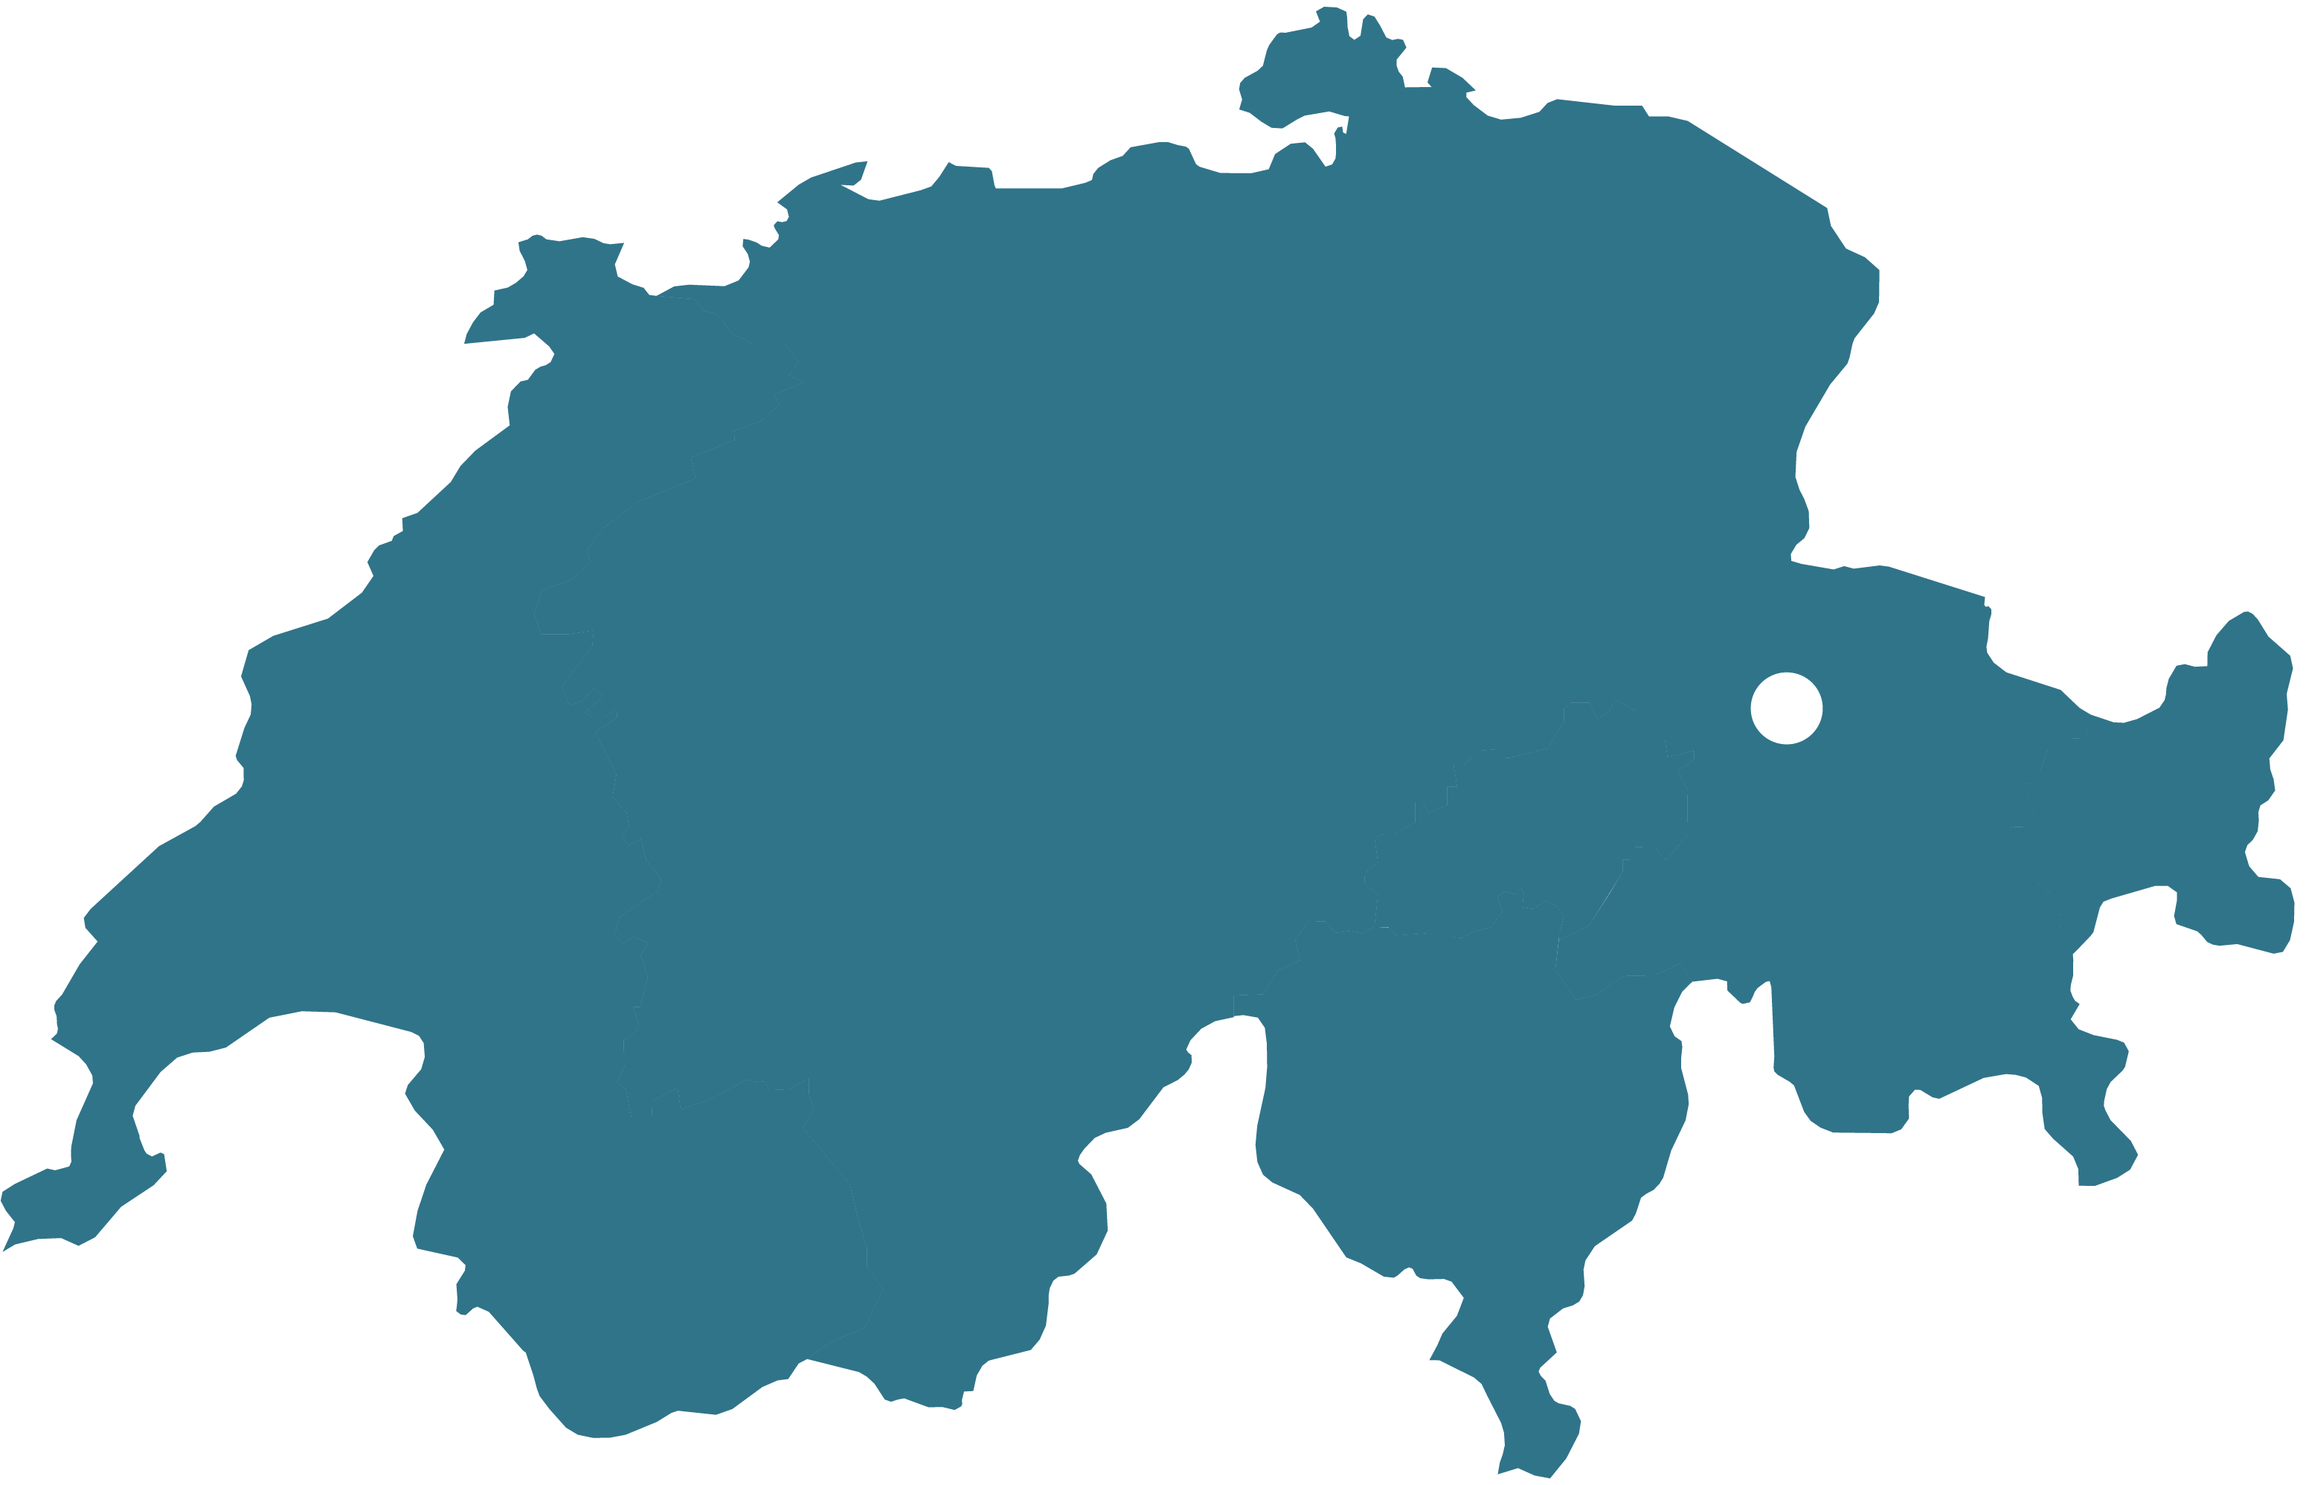
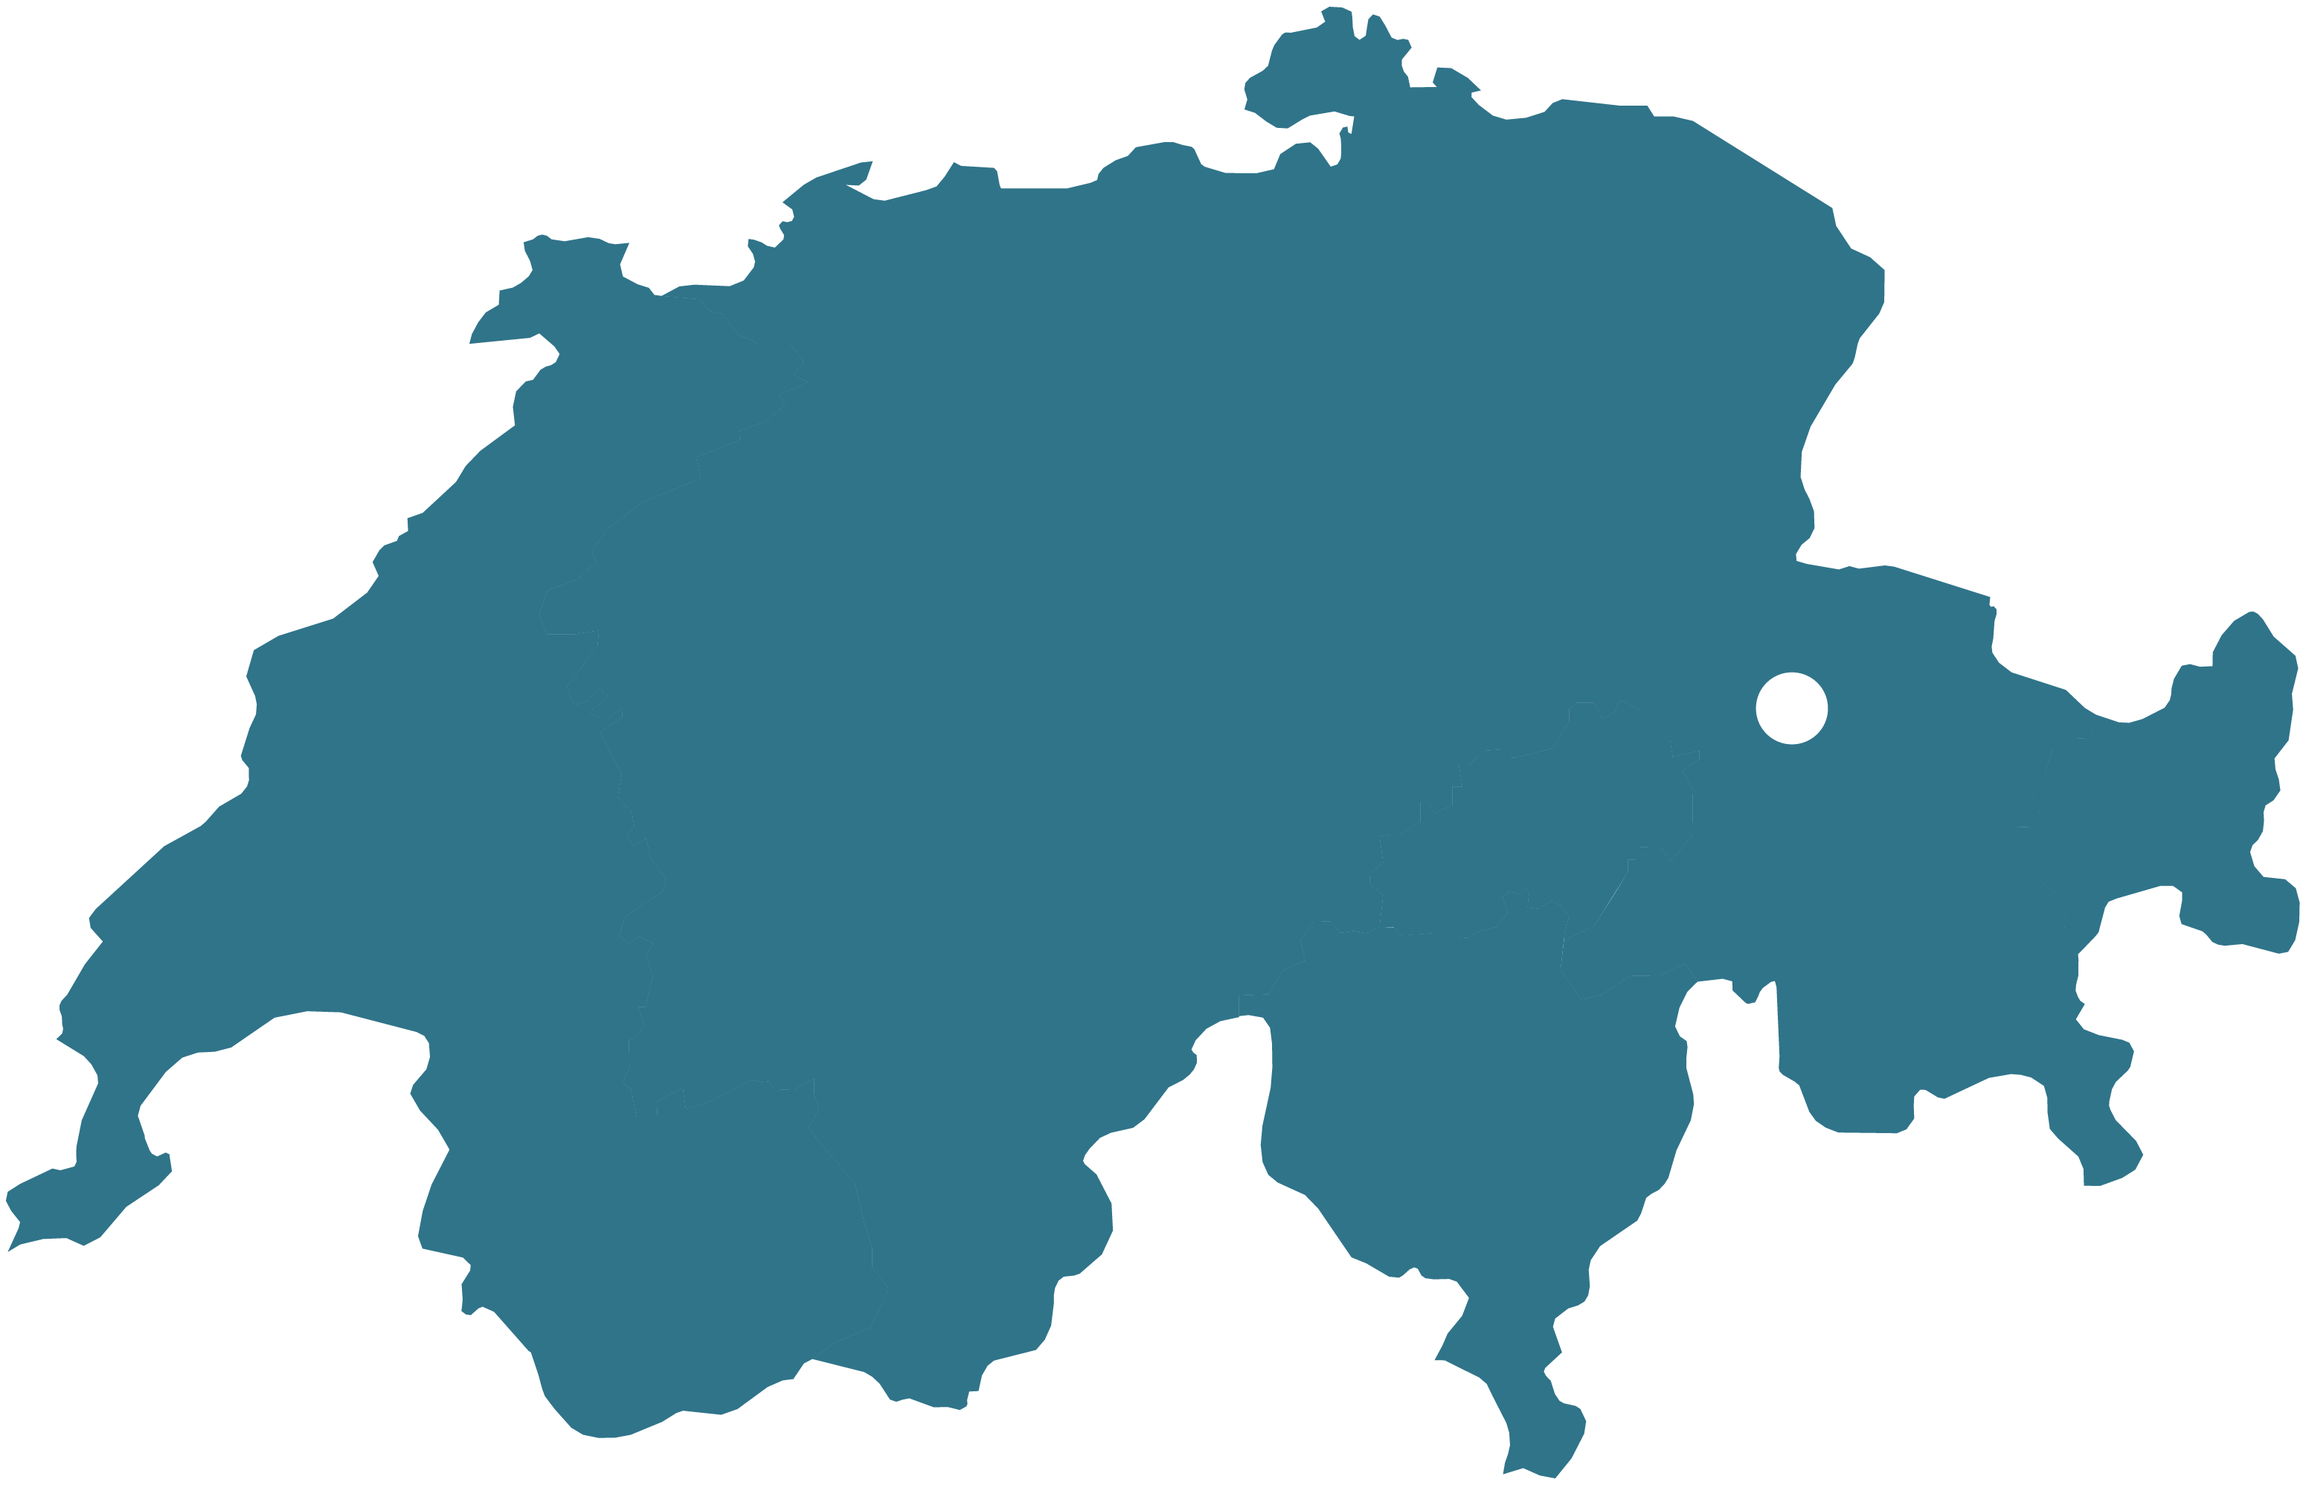
wetterseiten grundgerüst

diff --git a/wetter-lugano.html b/wetter-lugano.html
@@ -4,7 +4,7 @@
 <head>
     <meta charset="UTF-8">
     <meta name="viewport" content="width=device-width, initial-scale=1.0">
-    <title>Wetter Lausanne</title>
+    <title>Wetter Lugano</title>
     <link rel="stylesheet" href="style.css">
     <link rel="stylesheet"
         href="https://fonts.googleapis.com/css2?family=Poppins:wght@300;400;500;600;700&display=swap">
@@ -19,7 +19,7 @@
         <header class="statistik-large-div">
             <div class="menu-div"></div>
             <div class="title-div" id="title-h1">
-                <h1>LAUSANNE</h1>
+                <h1>LUGANO</h1>
             </div>
             <div class="menu-div"><a href="menu.html"><img id="menu-img" src="img/menu.svg"></div></a>
         </header>
@@ -28,16 +28,16 @@
 
             <div class="facts">
                 <p>Sonnenschein</p>
-                <p class="facts-p-fine" id="sunshine-lausanne">Text</p><br>
+                <p class="facts-p-fine" id="sunshine-lugano">Text</p><br>
                 <p>Wetter</p>
-                <p class="facts-p-fine" id="weather-lausanne">Text</p><br>
+                <p class="facts-p-fine" id="weather-lugano">Text</p><br>
                 <p>Temperatur</p>
-                <p class="facts-p-fine" id="temperature-lausanne">Text</p><br><br>
-                <a href="statistik-lausanne"><button id="statistik-button">Zur Statistik</button></a>
+                <p class="facts-p-fine" id="temperature-lugano">Text</p><br><br>
+                <a href="statistik-lugano.html"><button id="statistik-button">Zur Statistik</button></a>
             </div>
 
             <div class="switzerland">
-                <img id="switzerland-img" src="img/romandie_mit_punkten-01.webp">
+                <img id="switzerland-img" src="img/tessin_mit_punkten-01.webp">
             </div>
 
         </div>
@@ -50,11 +50,11 @@
             const imgElement = document.getElementById('switzerland-img');
 
             imgElement.addEventListener('mouseover', function () {
-                this.src = 'img/romandie_weiss-01.webp'; // the new image that appears on hover
+                this.src = 'img/tessin_weiss-01.webp'; // the new image that appears on hover
             });
 
             imgElement.addEventListener('mouseout', function () {
-                this.src = 'img/romandie_mit_punkten-01.webp'; // original image
+                this.src = 'img/tessin_mit_punkten-01.webp'; // original image
             });
         });
 
@@ -63,10 +63,10 @@
             fetch('/weather_update.php') // Adjust the path to your PHP script
                 .then(response => response.json())
                 .then(data => {
-                    const lausanneData = data['Lausanne'];
+                    const luganoData = data['Lugano'];
 
-                    if (lausanneData.error) {
-                        console.error('No data for Lausanne:', lausanneData.error);
+                    if (luganoData.error) {
+                        console.error('No data for Lugano:', luganoData.error);
                     } else {
                         // Translation mapping for weather conditions
                         const weatherTranslations = {
@@ -79,13 +79,13 @@
                             'stormy': 'Stürmisch'
                         };
 
-                        const sunshineText = `${lausanneData.sunshine_duration} Stunden`;
-                        const weatherText = weatherTranslations[lausanneData.weather_condition] || lausanneData.weather_condition;
-                        const temperatureText = `${lausanneData.temperature} °C`;
+                        const sunshineText = `${luganoData.sunshine_duration} Stunden`;
+                        const weatherText = weatherTranslations[luganoData.weather_condition] || luganoData.weather_condition;
+                        const temperatureText = `${luganoData.temperature} °C`;
 
-                        document.getElementById('sunshine-lausanne').textContent = sunshineText;
-                        document.getElementById('weather-lausanne').textContent = weatherText;
-                        document.getElementById('temperature-lausanne').textContent = temperatureText;
+                        document.getElementById('sunshine-lugano').textContent = sunshineText;
+                        document.getElementById('weather-lugano').textContent = weatherText;
+                        document.getElementById('temperature-lugano').textContent = temperatureText;
                     }
                 })
                 .catch(error => console.error('Error fetching data:', error));

diff --git a/wetter-bern.html b/wetter-bern.html
@@ -4,7 +4,7 @@
 <head>
     <meta charset="UTF-8">
     <meta name="viewport" content="width=device-width, initial-scale=1.0">
-    <title>Wetter Lausanne</title>
+    <title>Wetter Bern</title>
     <link rel="stylesheet" href="style.css">
     <link rel="stylesheet"
         href="https://fonts.googleapis.com/css2?family=Poppins:wght@300;400;500;600;700&display=swap">
@@ -19,7 +19,7 @@
         <header class="statistik-large-div">
             <div class="menu-div"></div>
             <div class="title-div" id="title-h1">
-                <h1>LAUSANNE</h1>
+                <h1>BERN</h1>
             </div>
             <div class="menu-div"><a href="menu.html"><img id="menu-img" src="img/menu.svg"></div></a>
         </header>
@@ -28,16 +28,16 @@
 
             <div class="facts">
                 <p>Sonnenschein</p>
-                <p class="facts-p-fine" id="sunshine-lausanne">Text</p><br>
+                <p class="facts-p-fine" id="sunshine-bern">Text</p><br>
                 <p>Wetter</p>
-                <p class="facts-p-fine" id="weather-lausanne">Text</p><br>
+                <p class="facts-p-fine" id="weather-bern">Text</p><br>
                 <p>Temperatur</p>
-                <p class="facts-p-fine" id="temperature-lausanne">Text</p><br><br>
-                <a href="statistik-lausanne"><button id="statistik-button">Zur Statistik</button></a>
+                <p class="facts-p-fine" id="temperature-bern">Text</p><br><br>
+                <a href="statistik-bern.html"><button id="statistik-button">Zur Statistik</button></a>
             </div>
 
             <div class="switzerland">
-                <img id="switzerland-img" src="img/romandie_mit_punkten-01.webp">
+                <img id="switzerland-img" src="img/deutschschweiz_mit_punkten-01.webp">
             </div>
 
         </div>
@@ -50,11 +50,11 @@
             const imgElement = document.getElementById('switzerland-img');
 
             imgElement.addEventListener('mouseover', function () {
-                this.src = 'img/romandie_weiss-01.webp'; // the new image that appears on hover
+                this.src = 'img/deutschschweiz_weiss-01.webp'; // the new image that appears on hover
             });
 
             imgElement.addEventListener('mouseout', function () {
-                this.src = 'img/romandie_mit_punkten-01.webp'; // original image
+                this.src = 'img/deutschschweiz_mit_punkten-01.webp'; // original image
             });
         });
 
@@ -63,10 +63,10 @@
             fetch('/weather_update.php') // Adjust the path to your PHP script
                 .then(response => response.json())
                 .then(data => {
-                    const lausanneData = data['Lausanne'];
+                    const bernData = data['Bern'];
 
-                    if (lausanneData.error) {
-                        console.error('No data for Lausanne:', lausanneData.error);
+                    if (bernData.error) {
+                        console.error('No data for Bern:', bernData.error);
                     } else {
                         // Translation mapping for weather conditions
                         const weatherTranslations = {
@@ -79,13 +79,13 @@
                             'stormy': 'Stürmisch'
                         };
 
-                        const sunshineText = `${lausanneData.sunshine_duration} Stunden`;
-                        const weatherText = weatherTranslations[lausanneData.weather_condition] || lausanneData.weather_condition;
-                        const temperatureText = `${lausanneData.temperature} °C`;
+                        const sunshineText = `${bernData.sunshine_duration} Stunden`;
+                        const weatherText = weatherTranslations[bernData.weather_condition] || bernData.weather_condition;
+                        const temperatureText = `${bernData.temperature} °C`;
 
-                        document.getElementById('sunshine-lausanne').textContent = sunshineText;
-                        document.getElementById('weather-lausanne').textContent = weatherText;
-                        document.getElementById('temperature-lausanne').textContent = temperatureText;
+                        document.getElementById('sunshine-bern').textContent = sunshineText;
+                        document.getElementById('weather-bern').textContent = weatherText;
+                        document.getElementById('temperature-bern').textContent = temperatureText;
                     }
                 })
                 .catch(error => console.error('Error fetching data:', error));

diff --git a/wetter-chur.html b/wetter-chur.html
@@ -4,7 +4,7 @@
 <head>
     <meta charset="UTF-8">
     <meta name="viewport" content="width=device-width, initial-scale=1.0">
-    <title>Wetter Lausanne</title>
+    <title>Wetter Chur</title>
     <link rel="stylesheet" href="style.css">
     <link rel="stylesheet"
         href="https://fonts.googleapis.com/css2?family=Poppins:wght@300;400;500;600;700&display=swap">
@@ -19,7 +19,7 @@
         <header class="statistik-large-div">
             <div class="menu-div"></div>
             <div class="title-div" id="title-h1">
-                <h1>LAUSANNE</h1>
+                <h1>CHUR</h1>
             </div>
             <div class="menu-div"><a href="menu.html"><img id="menu-img" src="img/menu.svg"></div></a>
         </header>
@@ -28,16 +28,16 @@
 
             <div class="facts">
                 <p>Sonnenschein</p>
-                <p class="facts-p-fine" id="sunshine-lausanne">Text</p><br>
+                <p class="facts-p-fine" id="sunshine-chur">Text</p><br>
                 <p>Wetter</p>
-                <p class="facts-p-fine" id="weather-lausanne">Text</p><br>
+                <p class="facts-p-fine" id="weather-chur">Text</p><br>
                 <p>Temperatur</p>
-                <p class="facts-p-fine" id="temperature-lausanne">Text</p><br><br>
-                <a href="statistik-lausanne"><button id="statistik-button">Zur Statistik</button></a>
+                <p class="facts-p-fine" id="temperature-chur">Text</p><br><br>
+                <a href="statistik-chur.html"><button id="statistik-button">Zur Statistik</button></a>
             </div>
 
             <div class="switzerland">
-                <img id="switzerland-img" src="img/romandie_mit_punkten-01.webp">
+                <img id="switzerland-img" src="img/graubuenden_mit_punkten-01.webp">
             </div>
 
         </div>
@@ -50,11 +50,11 @@
             const imgElement = document.getElementById('switzerland-img');
 
             imgElement.addEventListener('mouseover', function () {
-                this.src = 'img/romandie_weiss-01.webp'; // the new image that appears on hover
+                this.src = 'img/graubuenden_weiss-01.webp'; // the new image that appears on hover
             });
 
             imgElement.addEventListener('mouseout', function () {
-                this.src = 'img/romandie_mit_punkten-01.webp'; // original image
+                this.src = 'img/graubuenden_mit_punkten-01.webp'; // original image
             });
         });
 
@@ -63,10 +63,10 @@
             fetch('/weather_update.php') // Adjust the path to your PHP script
                 .then(response => response.json())
                 .then(data => {
-                    const lausanneData = data['Lausanne'];
+                    const churData = data['Chur'];
 
-                    if (lausanneData.error) {
-                        console.error('No data for Lausanne:', lausanneData.error);
+                    if (churData.error) {
+                        console.error('No data for Chur:', churData.error);
                     } else {
                         // Translation mapping for weather conditions
                         const weatherTranslations = {
@@ -79,13 +79,13 @@
                             'stormy': 'Stürmisch'
                         };
 
-                        const sunshineText = `${lausanneData.sunshine_duration} Stunden`;
-                        const weatherText = weatherTranslations[lausanneData.weather_condition] || lausanneData.weather_condition;
-                        const temperatureText = `${lausanneData.temperature} °C`;
+                        const sunshineText = `${churData.sunshine_duration} Stunden`;
+                        const weatherText = weatherTranslations[churData.weather_condition] || churData.weather_condition;
+                        const temperatureText = `${churData.temperature} °C`;
 
-                        document.getElementById('sunshine-lausanne').textContent = sunshineText;
-                        document.getElementById('weather-lausanne').textContent = weatherText;
-                        document.getElementById('temperature-lausanne').textContent = temperatureText;
+                        document.getElementById('sunshine-chur').textContent = sunshineText;
+                        document.getElementById('weather-chur').textContent = weatherText;
+                        document.getElementById('temperature-chur').textContent = temperatureText;
                     }
                 })
                 .catch(error => console.error('Error fetching data:', error));
